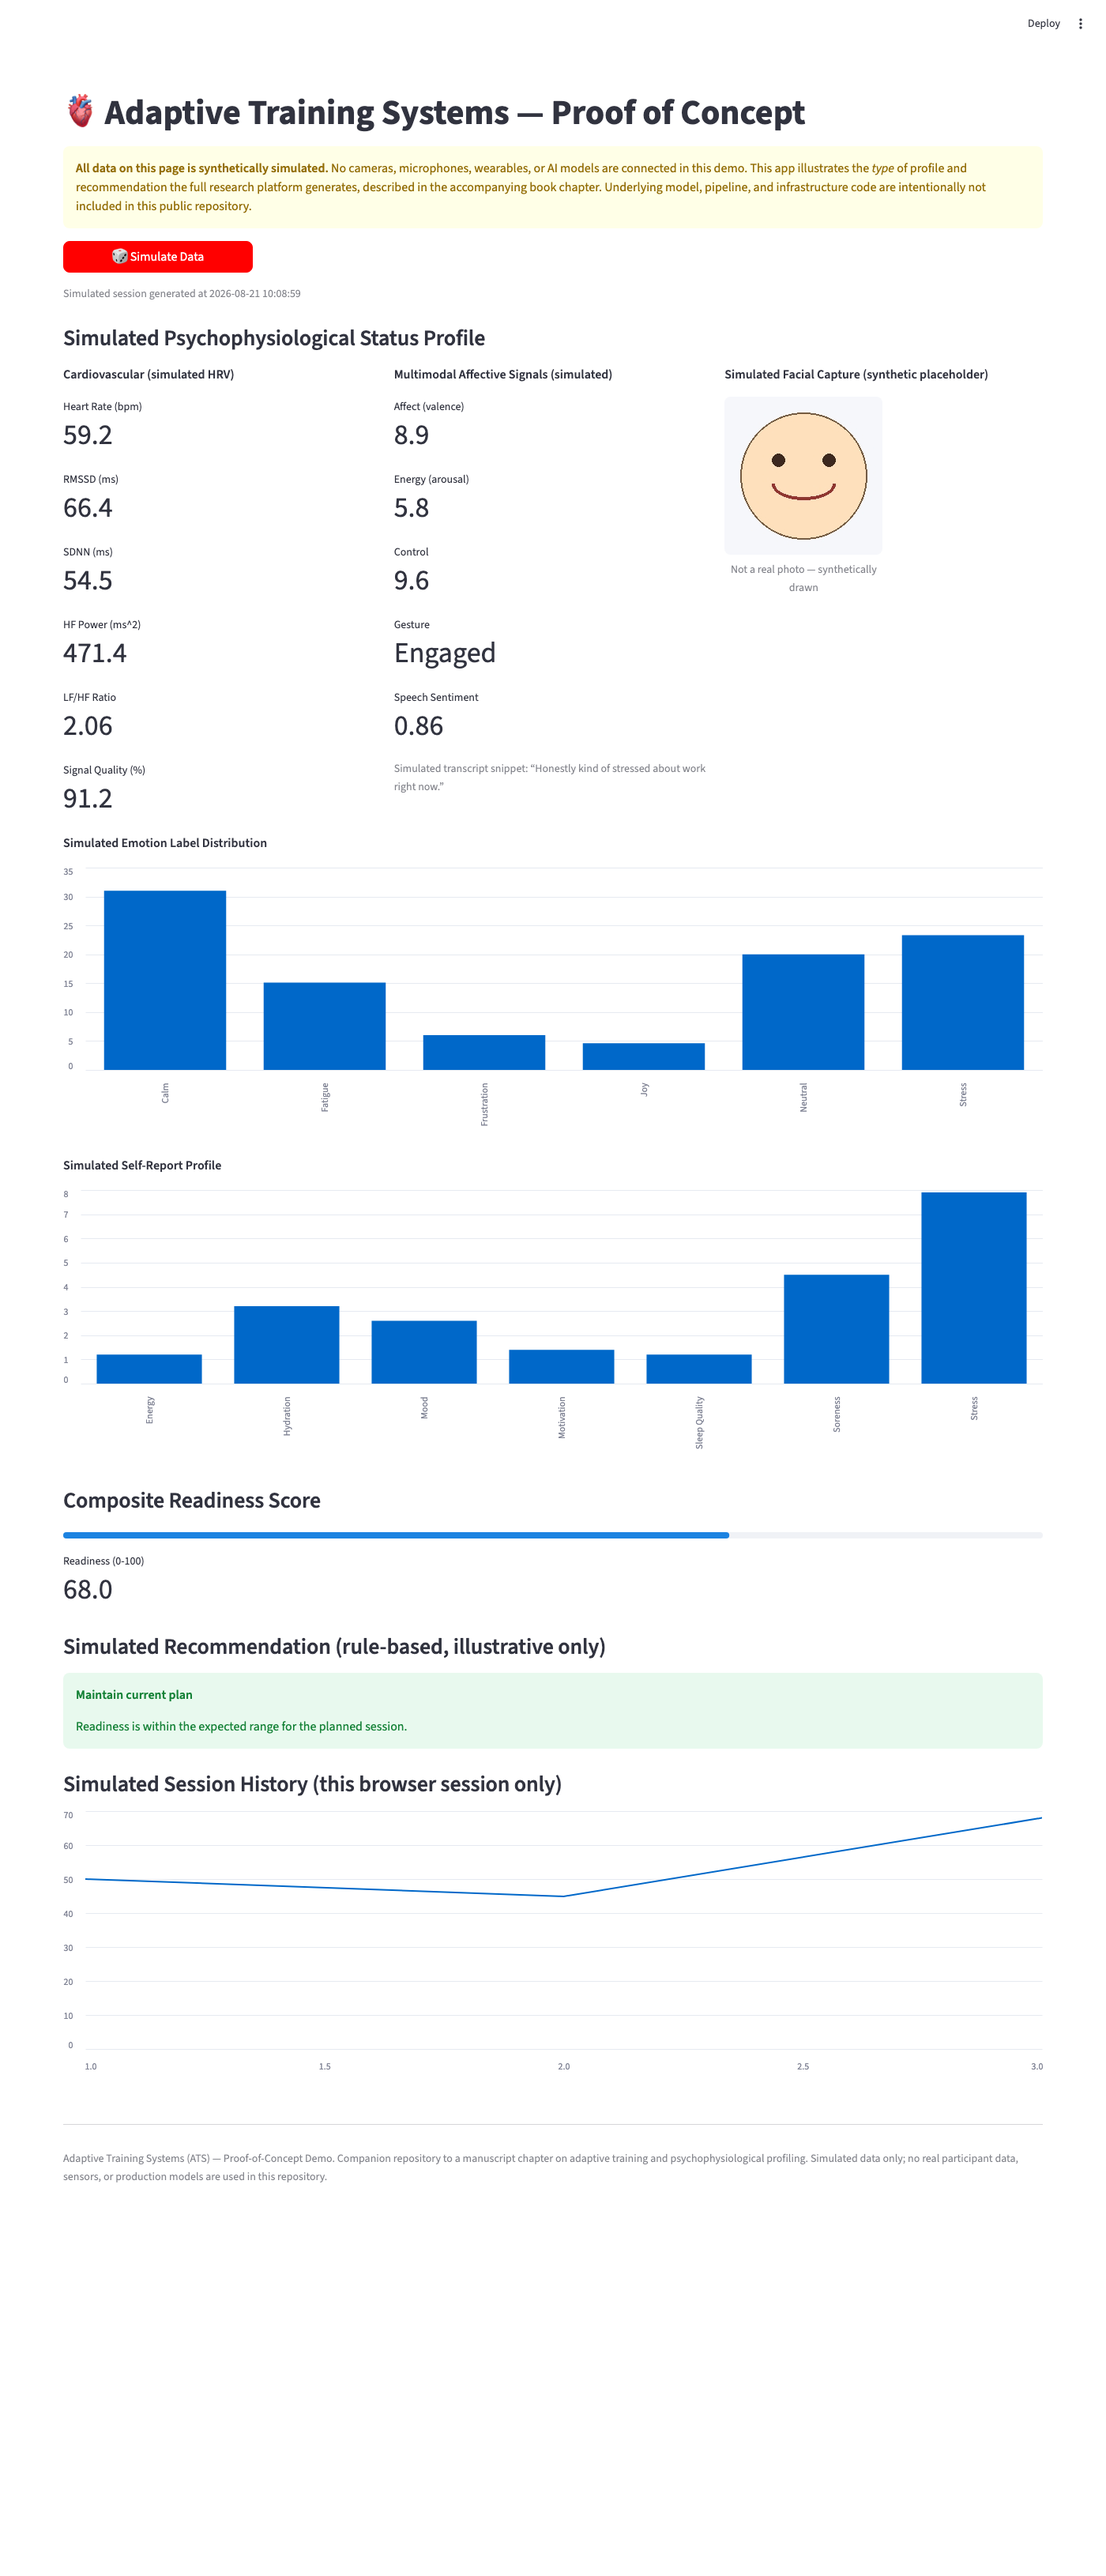
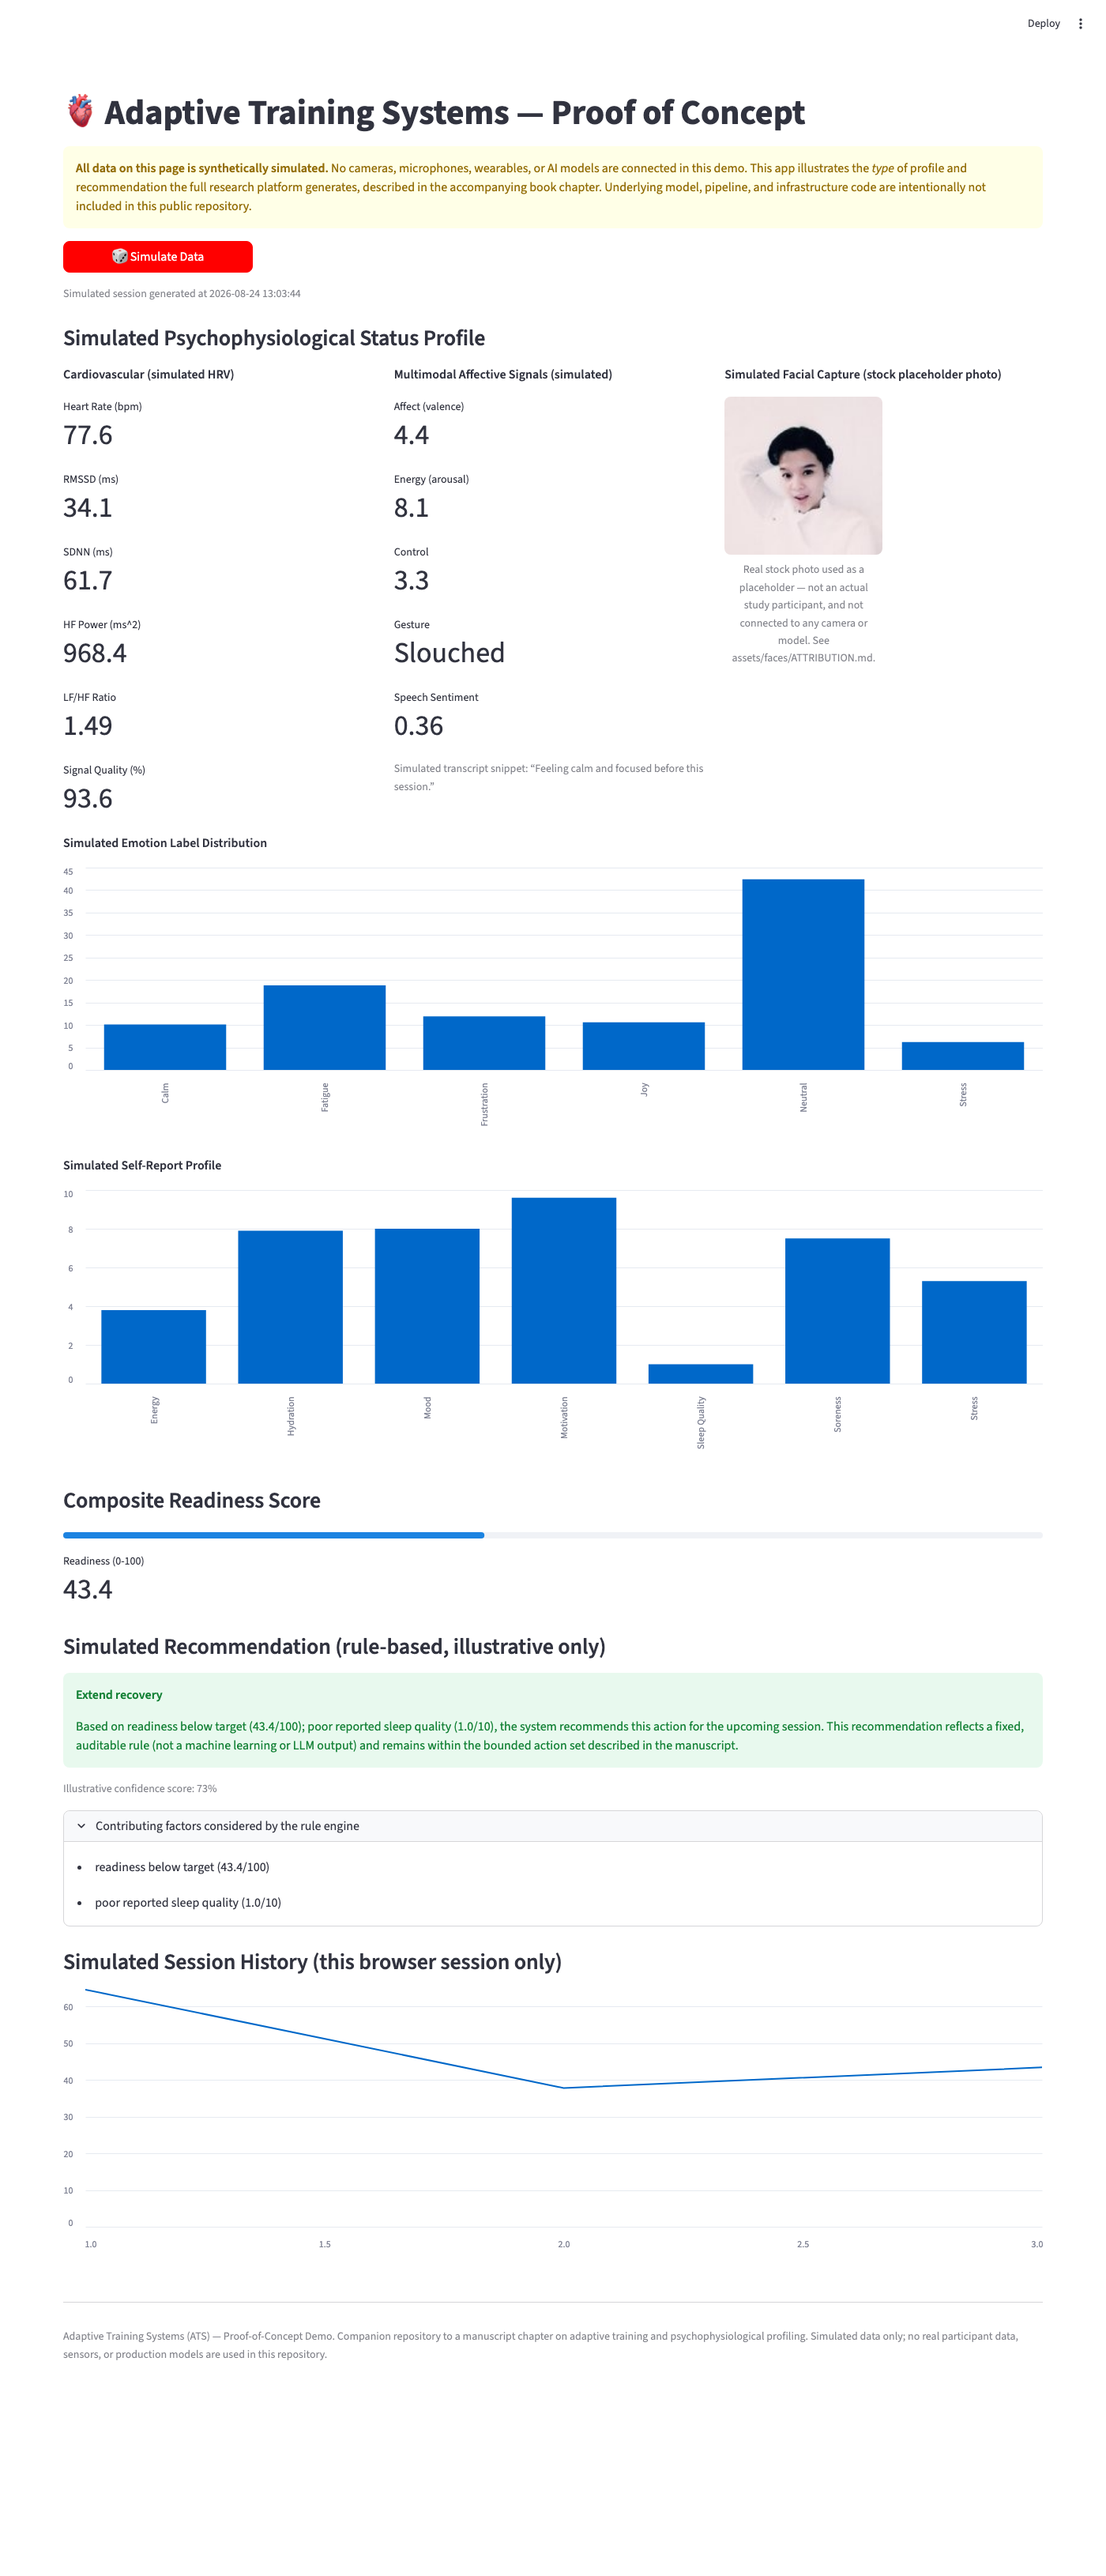
Use real stock face photos and expand recommendation logic
Per Dr. Bigliassi's feedback: replace the synthetic drawn face placeholder
with real portrait photos (randomuser.me/1000 Faces, CC BY-NC-SA 2.0,
attributed in assets/faces/ATTRIBUTION.md), and expand the rule-based
recommendation engine to jointly weigh readiness, HRV recovery, self-report
(stress/soreness/sleep), and affective/behavioral cues (gesture, speech
sentiment), with an illustrative confidence score and a transparent list of
contributing factors.

diff --git a/app.py b/app.py
@@ -20,13 +20,16 @@ Run locally with:
 
 import random
 from datetime import datetime
+from pathlib import Path
 
 import numpy as np
 import pandas as pd
 import streamlit as st
-from PIL import Image, ImageDraw
+from PIL import Image
 
 st.set_page_config(page_title="ATS Proof of Concept", page_icon="🫀", layout="wide")
+
+FACES_DIR = Path(__file__).resolve().parent / "assets" / "faces"
 
 EMOTION_LABELS = ["Calm", "Joy", "Stress", "Fatigue", "Frustration", "Neutral"]
 GESTURE_LABELS = ["Engaged", "Restless", "Still", "Slouched", "Fidgety"]
@@ -38,13 +41,17 @@ TRANSCRIPT_SNIPPETS = [
     "My legs are a little sore, but I'm motivated.",
     "Not sure I have much energy today.",
 ]
-RECOMMENDATION_ACTIONS = {
-    "rest": ("Recommend a rest day", "Readiness is low and recovery markers suggest the body needs a break."),
-    "recover": ("Extend recovery", "Readiness is below target; adding recovery time should help restore balance."),
-    "maintain": ("Maintain current plan", "Readiness is within the expected range for the planned session."),
-    "decrease": ("Decrease intensity", "Some indicators suggest reducing load slightly today."),
-    "increase": ("Increase intensity", "Readiness and recovery markers are strong; the body can handle more today."),
-    "regulate": ("Provide a regulation prompt", "Affective signals suggest a brief mindset or breathing cue before training."),
+
+# Bounded action set, consistent with the guardrail-restricted action space
+# described in the accompanying manuscript (Sections 2.6 and 3.5): the demo
+# may only ever select among these six pre-approved actions.
+ACTION_LEAD_INS = {
+    "rest": "Recommend a rest day",
+    "recover": "Extend recovery",
+    "maintain": "Maintain current plan",
+    "decrease": "Decrease intensity",
+    "increase": "Increase intensity",
+    "regulate": "Provide a regulation prompt",
 }
 
 
@@ -90,28 +97,19 @@ def simulate_self_report():
     return {f: round(np.random.uniform(1, 10), 1) for f in fields}
 
 
-def simulate_facial_snapshot(affect_score: float) -> Image.Image:
-    """Draw a simple synthetic face placeholder. NOT a real photo or camera capture."""
-    size = 200
-    img = Image.new("RGB", (size, size), (245, 247, 250))
-    draw = ImageDraw.Draw(img)
+def pick_face_photo() -> tuple:
+    """Pick a random real stock portrait as an illustrative placeholder.
 
-    face_color = (255, 224, 189)
-    draw.ellipse([20, 20, size - 20, size - 20], fill=face_color, outline=(120, 90, 60), width=2)
-
-    eye_y = size * 0.4
-    draw.ellipse([60, eye_y - 8, 76, eye_y + 8], fill=(60, 40, 30))
-    draw.ellipse([size - 76, eye_y - 8, size - 60, eye_y + 8], fill=(60, 40, 30))
-
-    mouth_y = size * 0.65
-    curve = int((affect_score - 5.5) * 6)
-    bbox = [size * 0.3, mouth_y - 20 - curve, size * 0.7, mouth_y + 20 - curve]
-    if affect_score >= 5.5:
-        draw.arc(bbox, start=0, end=180, fill=(150, 50, 50), width=4)
-    else:
-        draw.arc(bbox, start=180, end=360, fill=(150, 50, 50), width=4)
-
-    return img
+    These are real photographs (see assets/faces/ATTRIBUTION.md for source
+    and license), but they are NOT real study participants and are NOT
+    connected to any camera or facial-analysis model. One is simply chosen
+    at random each time "Simulate Data" is clicked.
+    """
+    candidates = sorted(FACES_DIR.glob("*.jpg"))
+    if not candidates:
+        return None, "No placeholder photos found."
+    chosen = random.choice(candidates)
+    return Image.open(chosen), chosen.name
 
 
 def compute_readiness(hrv, affect, self_report):
@@ -126,19 +124,72 @@ def compute_readiness(hrv, affect, self_report):
     return readiness
 
 
-def generate_recommendation(readiness: float, affect: dict):
-    if readiness < 35:
+def generate_recommendation(hrv: dict, affect: dict, self_report: dict, readiness: float):
+    """Rule-based recommendation engine (illustrative only).
+
+    Mirrors, at a much simplified scale, the Phase A rule-based decision
+    layer described in the manuscript (Section 3.5): a small, auditable,
+    priority-ordered set of if-then rules that considers multiple simulated
+    signals jointly, rather than readiness alone, and always resolves to one
+    of six pre-approved actions (Sections 2.6, 3.5). No machine learning or
+    LLM component is used here; a single deterministic function decides the
+    action, and a short natural-language rationale is generated by citing
+    the specific simulated inputs that drove that decision, so the logic
+    remains fully inspectable.
+    """
+    factors = []
+
+    if self_report["Soreness"] >= 8 and hrv["RMSSD (ms)"] < 30:
+        key = "decrease"
+        factors.append(f"high reported muscle soreness ({self_report['Soreness']}/10)")
+        factors.append(f"reduced parasympathetic recovery (RMSSD = {hrv['RMSSD (ms)']} ms)")
+
+    elif readiness < 35:
         key = "rest"
-    elif readiness < 50:
+        factors.append(f"low composite readiness ({readiness}/100)")
+        if self_report["Stress"] >= 7:
+            factors.append(f"elevated self-reported stress ({self_report['Stress']}/10)")
+        if hrv["RMSSD (ms)"] < 30:
+            factors.append(f"low RMSSD ({hrv['RMSSD (ms)']} ms) relative to typical resting range")
+
+    elif readiness < 50 or (self_report["Stress"] >= 7 and self_report["Sleep Quality"] <= 4):
         key = "recover"
-    elif readiness < 65:
-        key = "maintain" if affect["affect"] >= 4 else "regulate"
-    elif readiness < 80:
-        key = "maintain"
-    else:
+        factors.append(f"readiness below target ({readiness}/100)")
+        if self_report["Sleep Quality"] <= 4:
+            factors.append(f"poor reported sleep quality ({self_report['Sleep Quality']}/10)")
+
+    elif affect["gesture"] in ("Restless", "Fidgety", "Slouched") and affect["sentiment"] < 0:
+        key = "regulate"
+        factors.append(f"{affect['gesture'].lower()} body-language cue")
+        factors.append(f"negative speech sentiment ({affect['sentiment']})")
+
+    elif readiness >= 80 and affect["affect"] >= 7 and affect["control"] >= 6:
         key = "increase"
-    action, rationale = RECOMMENDATION_ACTIONS[key]
-    return action, rationale
+        factors.append(f"high composite readiness ({readiness}/100)")
+        factors.append(f"positive affect and sense of control ({affect['affect']}/10, {affect['control']}/10)")
+
+    elif readiness < 65:
+        key = "decrease"
+        factors.append(f"moderately reduced readiness ({readiness}/100)")
+
+    else:
+        key = "maintain"
+        factors.append(f"readiness within the expected range ({readiness}/100)")
+
+    # Illustrative confidence heuristic: more corroborating factors and a
+    # readiness value further from ambiguous mid-range thresholds both raise
+    # confidence. Not a calibrated probability, purely for demonstration.
+    distance_from_midline = abs(readiness - 50) / 50
+    confidence = round(min(97, max(55, 60 + 20 * distance_from_midline + 5 * len(factors))), 0)
+
+    action = ACTION_LEAD_INS[key]
+    factor_text = "; ".join(factors)
+    rationale = (
+        f"Based on {factor_text}, the system recommends this action for the upcoming session. "
+        f"This recommendation reflects a fixed, auditable rule (not a machine learning or "
+        f"LLM output) and remains within the bounded action set described in the manuscript."
+    )
+    return action, rationale, confidence, factors
 
 
 def run_simulation():
@@ -146,8 +197,8 @@ def run_simulation():
     affect = simulate_affect()
     self_report = simulate_self_report()
     readiness = compute_readiness(hrv, affect, self_report)
-    action, rationale = generate_recommendation(readiness, affect)
-    face_img = simulate_facial_snapshot(affect["affect"])
+    action, rationale, confidence, factors = generate_recommendation(hrv, affect, self_report, readiness)
+    face_img, face_filename = pick_face_photo()
 
     return {
         "timestamp": datetime.now().strftime("%Y-%m-%d %H:%M:%S"),
@@ -157,7 +208,10 @@ def run_simulation():
         "readiness": readiness,
         "action": action,
         "rationale": rationale,
+        "confidence": confidence,
+        "factors": factors,
         "face_img": face_img,
+        "face_filename": face_filename,
     }
 
 
@@ -204,8 +258,14 @@ else:
         st.caption(f"Simulated transcript snippet: \u201c{latest['affect']['transcript']}\u201d")
 
     with c3:
-        st.markdown("**Simulated Facial Capture (synthetic placeholder)**")
-        st.image(latest["face_img"], caption="Not a real photo \u2014 synthetically drawn", width=200)
+        st.markdown("**Simulated Facial Capture (stock placeholder photo)**")
+        st.image(
+            latest["face_img"],
+            caption="Real stock photo used as a placeholder \u2014 not an actual "
+            "study participant, and not connected to any camera or model. "
+            "See assets/faces/ATTRIBUTION.md.",
+            width=200,
+        )
 
     st.markdown("**Simulated Emotion Label Distribution**")
     dist_df = pd.DataFrame.from_dict(latest["affect"]["distribution"], orient="index", columns=["% of frames"])
@@ -221,6 +281,10 @@ else:
 
     st.subheader("Simulated Recommendation (rule-based, illustrative only)")
     st.success(f"**{latest['action']}**\n\n{latest['rationale']}")
+    st.caption(f"Illustrative confidence score: {latest['confidence']:.0f}%")
+    with st.expander("Contributing factors considered by the rule engine"):
+        for f in latest["factors"]:
+            st.markdown(f"- {f}")
 
     if len(st.session_state.history) > 1:
         st.subheader("Simulated Session History (this browser session only)")

diff --git a/scripts/capture_screenshots.py b/scripts/capture_screenshots.py
@@ -22,6 +22,13 @@ async def main():
         await button.click()
         await page.wait_for_timeout(1500)
 
+        expander = page.get_by_text("Contributing factors considered by the rule engine")
+        try:
+            await expander.click()
+            await page.wait_for_timeout(400)
+        except Exception:
+            pass
+
         async def resize_to_content():
             await page.set_viewport_size({"width": 1400, "height": 3200})
             await page.wait_for_timeout(600)

diff --git a/README.md b/README.md
@@ -7,16 +7,32 @@ adaptive training and psychophysiological profiling.
 
 A single-page app with one button, **Simulate Data**, that generates a
 randomly simulated pre-session profile (heart rate variability, multimodal
-affective signals, a self-report survey, and a synthetic facial-capture
-placeholder) and displays an illustrative, rule-based training
-recommendation derived from that simulated profile.
+affective signals, a self-report survey, and a facial-capture placeholder
+photo) and displays an illustrative, rule-based training recommendation
+derived jointly from those simulated signals.
+
+The facial-capture placeholder uses real stock portrait photos (see
+[`assets/faces/ATTRIBUTION.md`](assets/faces/ATTRIBUTION.md) for source and
+license) rather than an actual camera capture. A different photo is chosen
+at random on each simulation.
+
+The recommendation engine is a small, transparent, priority-ordered set of
+if-then rules (see `generate_recommendation()` in `app.py`) that jointly
+considers readiness, HRV recovery markers, self-reported stress/soreness/
+sleep, and affective/behavioral cues (gesture, speech sentiment) before
+selecting one of six pre-approved actions, along with an illustrative
+confidence score and a plain-language list of the specific factors that
+drove the decision.
 
 ## What this is not
 
 - No cameras, microphones, or wearable devices are connected.
-- No real AI/ML models are called (the recommendation logic here is a
-  simple, transparent rule of thumb for illustration only).
+- No real AI/ML or LLM models are called anywhere in this repository; the
+  recommendation logic is a simple, fully transparent rule engine for
+  illustration only.
 - No participant data of any kind is collected, stored, or transmitted.
+- The facial-capture photos are stock placeholder images, not photos of
+  real study participants, and are not analyzed by any model.
 - This repository does not include the data pipelines, model training
   code, or infrastructure of the full research platform.
 

diff --git a/assets/faces/ATTRIBUTION.md b/assets/faces/ATTRIBUTION.md
@@ -1,0 +1,18 @@
+# Face Photo Attribution
+
+The photos in this folder are used as **illustrative stock placeholders only**.
+They do not depict real study participants, and are not connected to any
+camera, sensor, or facial-analysis model in this repository — the app simply
+picks one at random when you click "Simulate Data."
+
+**Source:** [Random User Generator](https://randomuser.me/) portrait library
+(`https://randomuser.me/api/portraits/...`), hand-picked from the authorized
+section of [UI Faces](https://uifaces.co/), originally drawn from
+Greg Peverill-Conti's ["1,000 Faces" project](https://www.flickr.com/photos/gregpc/sets/72157625093827617/).
+
+**License:** [CC BY-NC-SA 2.0](https://creativecommons.org/licenses/by-nc-sa/2.0/)
+(Attribution, Non-Commercial, Share-Alike). This license applies specifically
+to the image files in this folder and is separate from the MIT license that
+covers the rest of this repository's code. Use of these images is limited to
+non-commercial purposes (e.g., this academic research demo); redistribution
+of the images themselves should retain this attribution and license.
